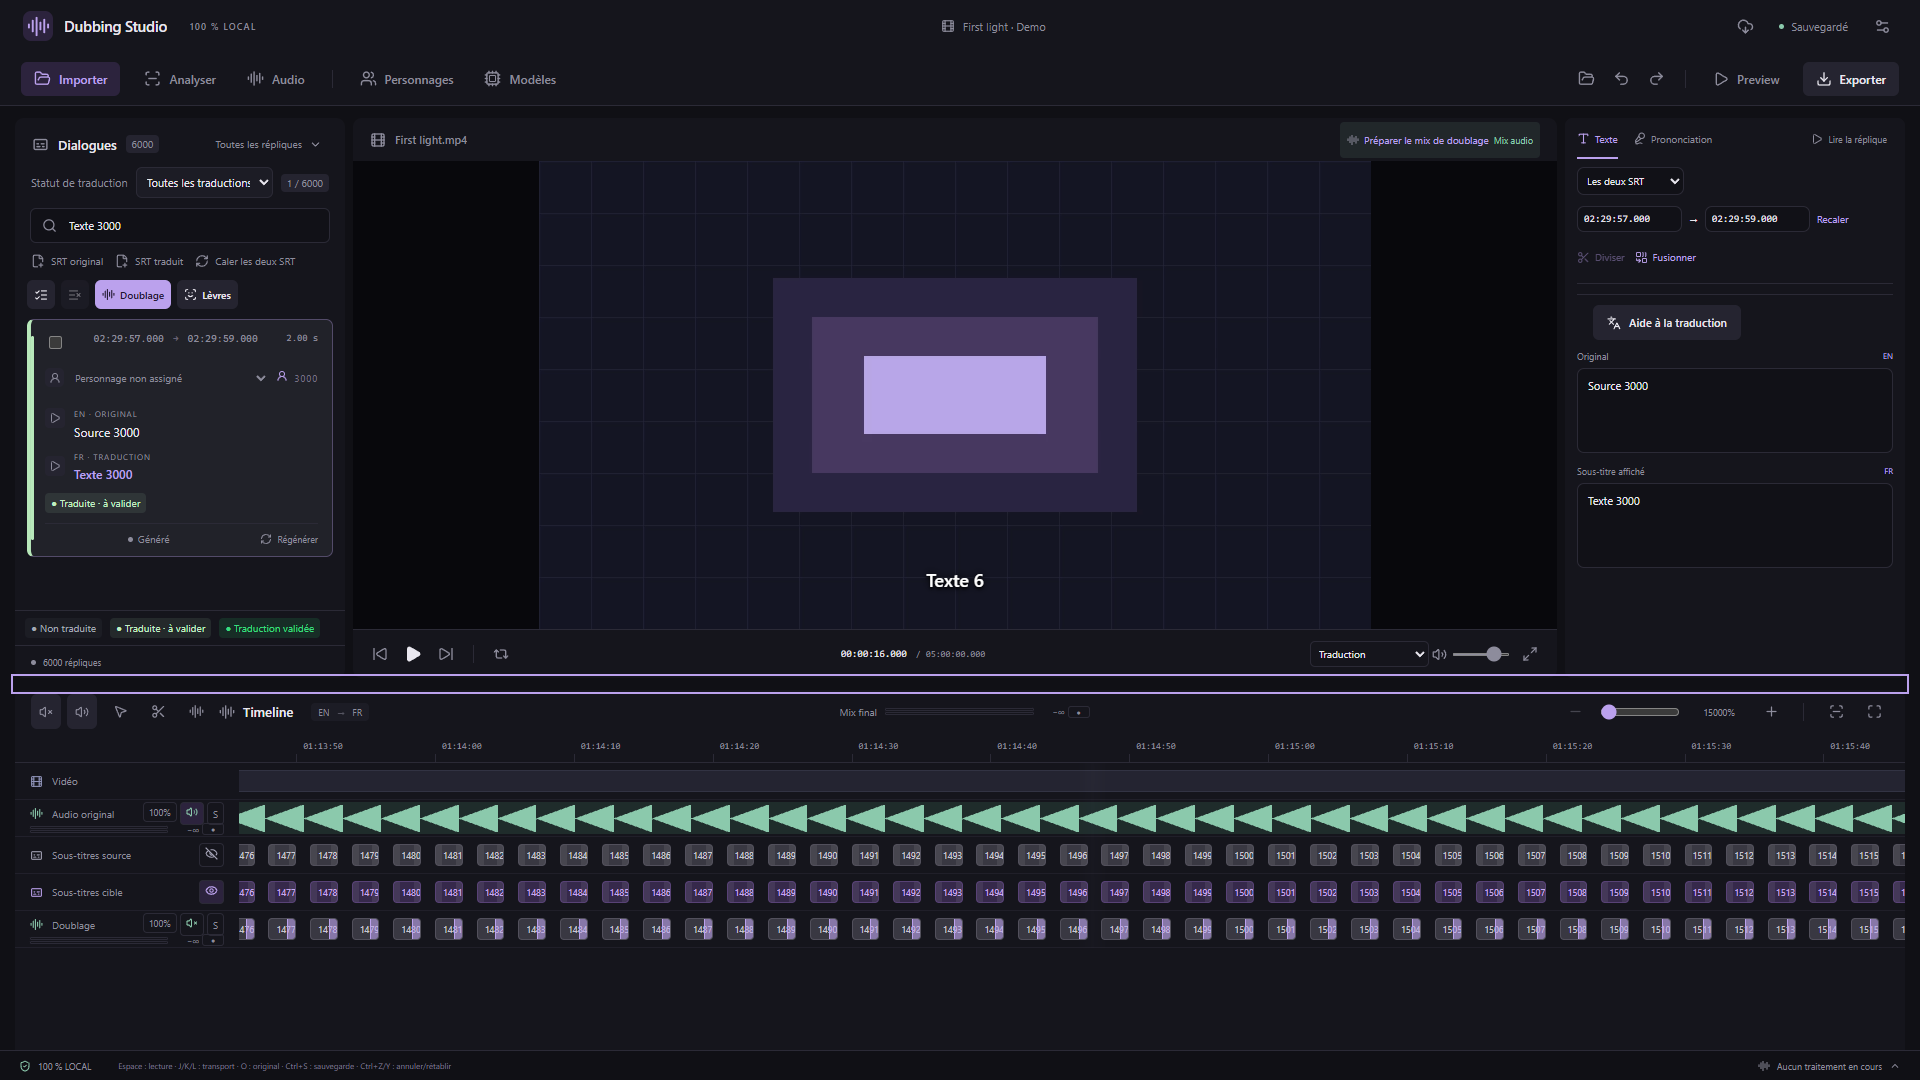
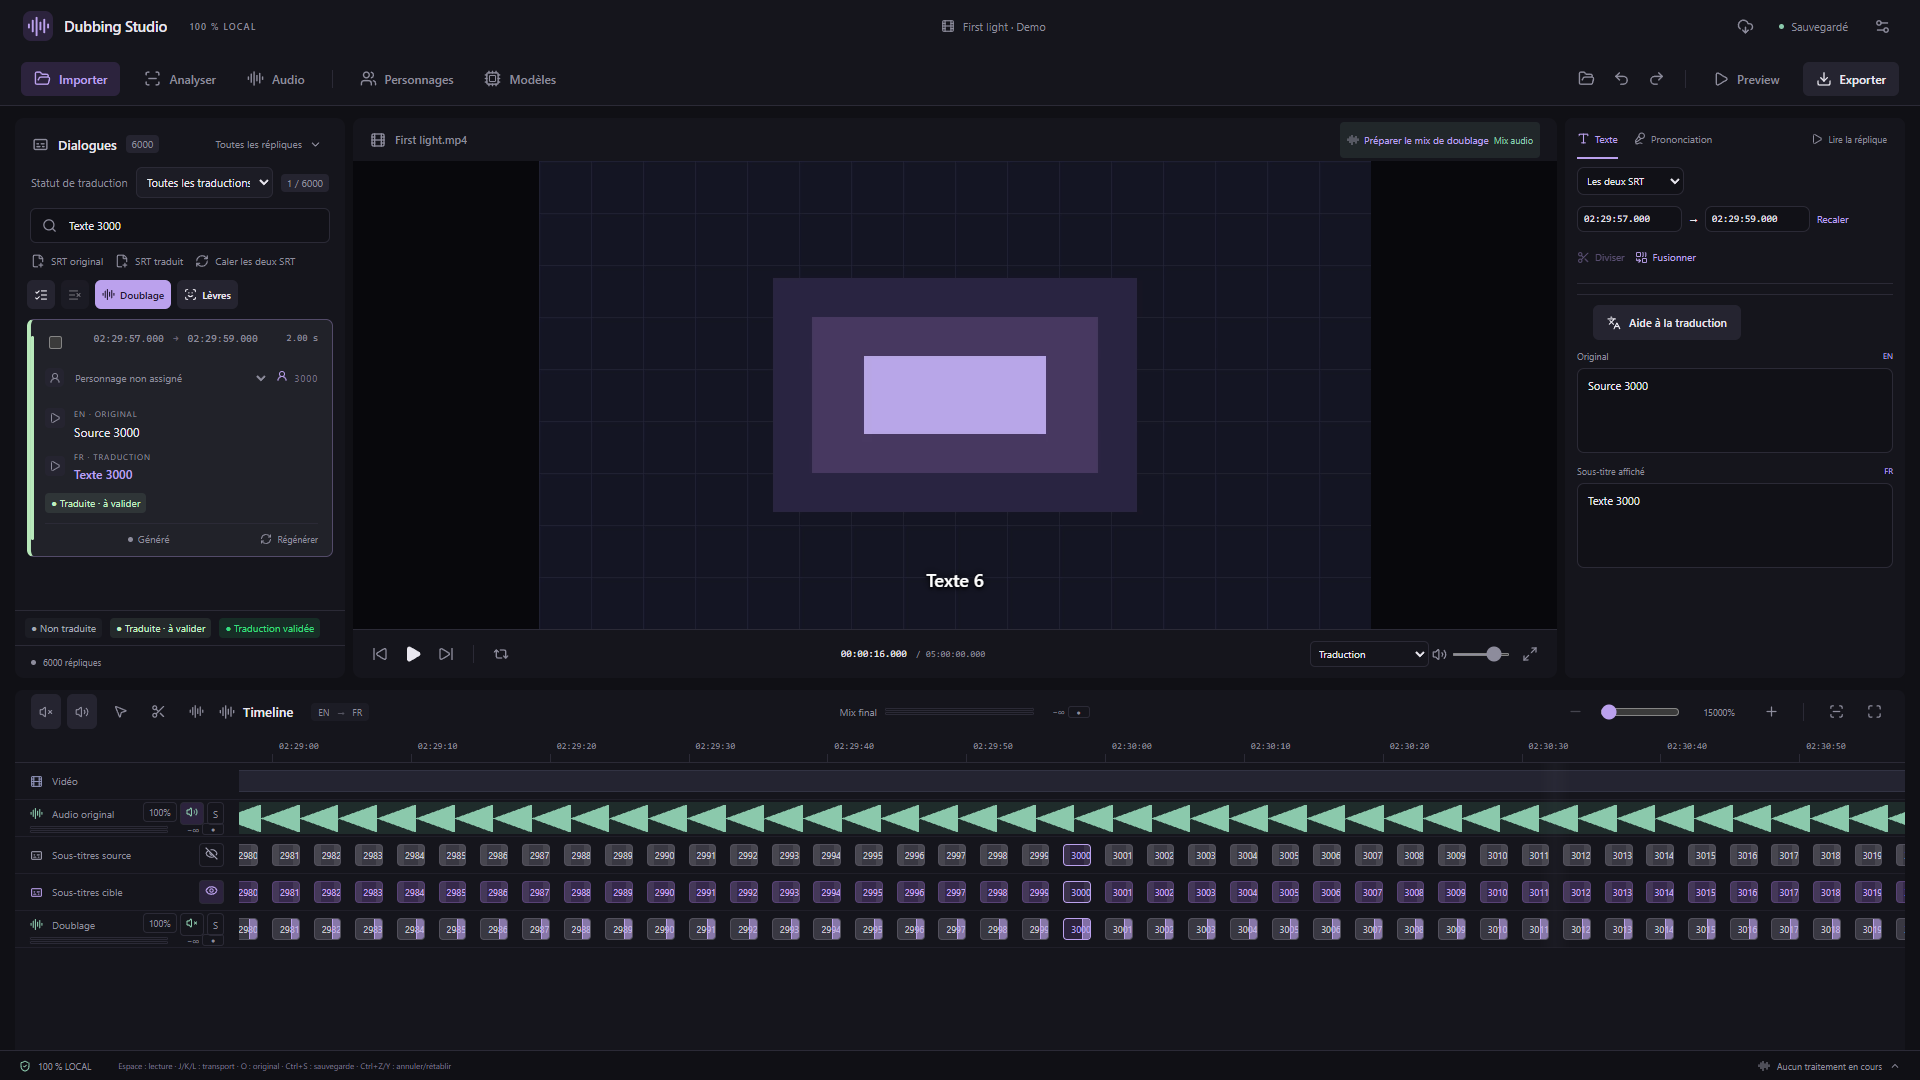
Keep the selected reply visible in the long-film guide capture

diff --git a/tests/e2e/timeline-performance.pw.ts b/tests/e2e/timeline-performance.pw.ts
@@ -165,6 +165,8 @@ test('five-hour films never mount all 18000 cue/voice buttons and every zoom ent
   const separator = page.getByRole('separator', { name: 'Redimensionner la timeline', exact: true });
   await separator.focus();
   for (let i = 0; i < 16; i++) await separator.press('ArrowUp');
+  await page.locator('.dialogue-card').filter({ hasText: 'Texte 3000' }).click();
+  await expect(page.locator('.target .subtitle-block.selected')).toHaveText('3000');
   await limited(page);
   await page.screenshot({ path: 'docs/screenshots/timeline-long-film-fr.png' });
 });
